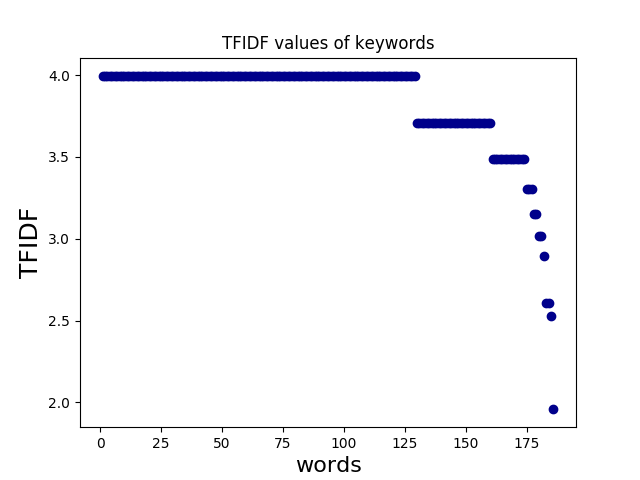
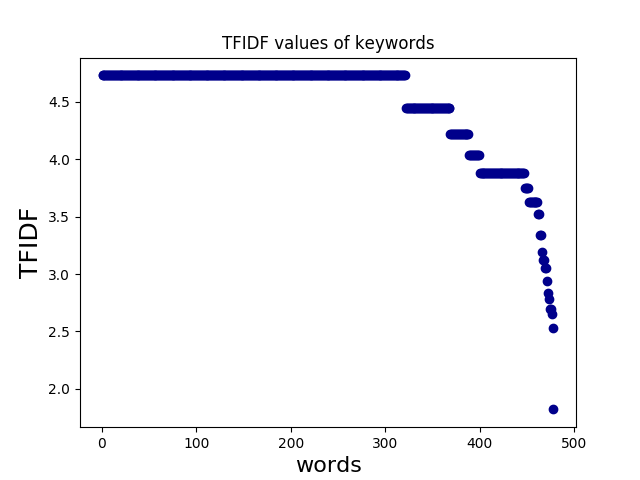
Added SVM for the first time

diff --git a/TraffickingLight/TFIDF.py b/TraffickingLight/TFIDF.py
@@ -1,7 +1,13 @@
 from sklearn.feature_extraction.text import TfidfVectorizer
 from sklearn.feature_extraction import text
-from sklearn.feature_selection import chi2
-from sklearn import svm
+from sklearn.feature_selection import chi2, SelectKBest
+from sklearn.svm import LinearSVC
+from time import time
+from sklearn import metrics
+from sklearn.pipeline import Pipeline
+from sklearn.model_selection import train_test_split
+from sklearn import preprocessing
+
 import pandas as pd
 import numpy as np
 import os
@@ -19,14 +25,14 @@ dfT = pd.DataFrame(columns=['time stamp', 'user', 'full text', 'image url', 'Fla
 dfF = pd.DataFrame(columns=['time stamp', 'user', 'full text', 'image url', 'Flag'])
 dfA = pd.DataFrame(columns=['time stamp', 'user', 'full text', 'image url', 'Flag'])
 #ngram_range=(lower bound number of words, upper bound number of words)
-tfidf = TfidfVectorizer(ngram_range=(1,2), stop_words=my_stop_words, norm='l2', min_df=2)
+tfidf = TfidfVectorizer(ngram_range=(1,2), stop_words=my_stop_words, min_df=2, sublinear_tf=True)
 
 
 #lemmatization method
 def clean(tweet):
 
     cleaned_tweet = re.sub(r'([^\w\s]|\d)+', '', tweet.lower())
-    return ' '.join([lemmatizer.lemmatize(i, 'v')
+    return ' '.join([lemmatizer.lemmatize(i)
                 for i in cleaned_tweet.split() if i not in my_stop_words])
 
 #To form dataframe for matrix in preparation for scatter plot
@@ -46,6 +52,7 @@ def plotTFIDF(tfidf_dictionary):
     plt.show()
 
 
+# This calculates the idf value for the terms in the posts and prints the highest ones
 def topTerms(vectorizer):
     indices = np.argsort(vectorizer.idf_)[::-1]
     top_n = 40
@@ -59,9 +66,10 @@ for pos_csv in os.listdir(path_to_csv):
     if pos_csv.endswith('.csv'):
         csv_in = pd.read_csv(path_to_csv + pos_csv)
 
-        dfT = dfT.append(csv_in[csv_in['Flag'] == 'Y'])
-        dfF = dfF.append(csv_in[csv_in['Flag'] == 'N'])
+        dfT = dfT.append(csv_in[csv_in['Flag'] == 1])
+        dfF = dfF.append(csv_in[csv_in['Flag'] == 0])
         dfA = dfA.append(csv_in)
+
 
 print('Number of True sets: ', dfT['full text'].count())
 print('Number of False sets: ', dfF['full text'].count())
@@ -77,11 +85,14 @@ topTerms(tfidf)
 
 #lemmatization going on here
 
-for row, index in zip(dfT['full text'], range(len(dfT['full text']))):
-    row = clean(row)
-    #cleans out the first 'b', any phrases that starts with https, and rt's
-    row = re.sub(r'(^b)|(\b(https)\w*\s)|(\brt\s)', '', row)
-    dfT['full text'].iloc[index] = row
+def lemmatize(df):
+    for row, index in zip(df['full text'], range(len(df['full text']))):
+        row = clean(row)
+        # cleans out the first 'b', any phrases that starts with https, and rt's
+        row = re.sub(r'(^b)|(\b(https)\w*\s)|(\brt\s)', '', row)
+        df['full text'].iloc[index] = row
+
+lemmatize(dfT)
 
 print('Cleaned Up')
 print(dfT['full text'])
@@ -97,10 +108,12 @@ topTerms(tfidf)
 
 #Analysis using Chi2
 
+lemmatize(dfA)
+
 response_all_lemmatized = tfidf.fit_transform(dfA['full text'])
 tf_array = response_all_lemmatized.toarray()
-top_n_terms = 10
-features_chi2 = chi2(tf_array, 'T' == dfA['Flag'])
+top_n_terms = 5
+features_chi2 = chi2(tf_array, dfA['Flag'] == 1)
 indices = np.argsort(features_chi2[0])
 feature_names = np.array(tfidf.get_feature_names())[indices]
 unigrams = [v for v in feature_names if len(v.split(' ')) == 1]
@@ -109,16 +122,56 @@ print("  . Most correlated unigrams:\n. {}".format('\n. '.join(unigrams[-top_n_t
 print("  . Most correlated bigrams:\n. {}".format('\n. '.join(bigrams[-top_n_terms:])))
 
 
-# This calculates the idf value for the terms in the posts and prints the highest ones
+
 
 
 #-------------------------Machine Learing Model Development------------------------#
 #create a svm classifier
-clf = svm.SVC(kernel= 'linear')
+
+
+def benchmark(clf):
+    print('_' * 80)
+    print("Training: ")
+    print(clf)
+    t0 = time()
+    clf.fit(X_train, y_train)
+    train_time = time() - t0
+    print("train time: %0.3fs" % train_time)
+
+    t0 = time()
+    pred = clf.predict(X_test)
+    test_time = time() - t0
+    print("test time:  %0.3fs" % test_time)
+
+    score = metrics.accuracy_score(y_test, pred)
+    print("accuracy:   %0.3f" % score)
 
 
 
 
+X = tfidf.transform(dfA['full text'])
+
+y = np.asarray(dfA['Flag'])
+
+X_train, X_test, y_train, y_test = train_test_split(X, y, test_size=0.25, random_state=42)
+
+print("n samples and n features: ", X_test.shape)
+
+print('_' * 80)
+print("Training: ")
+t0 = time()
+clf = LinearSVC(penalty="l1", dual=False, tol=1e-3)
+
+clf.fit(X_train, y_train)
+train_time = time() - t0
+print("train time: %0.3fs" % train_time)
+
+pred = clf.predict(X_test)
+test_time = time() - t0
+print("test time:  %0.3fs" % test_time)
+
+score = metrics.accuracy_score(y_test, pred)
+print("accuracy:   %0.3f" % score)
 
 
 

diff --git a/TraffickingLight/ImportTweet.py b/TraffickingLight/ImportTweet.py
@@ -7,12 +7,12 @@ import pandas as pd
 #data_json = open('/Users/Ju1y/Documents/Trafficking Light/(Pimpin) OR (Pregofetish) OR (dfe)/tweets_1548882430_1.json', mode='r').read();
 #data_python = json.loads(data_json)
 
-path_to_json = '/Users/Ju1y/Documents/Trafficking Light/S8'
+path_to_json = '/Users/Ju1y/Documents/Trafficking Light/S11'
 json_files = [pos_json for pos_json in os.listdir(path_to_json) if pos_json.endswith('.json')]
 
 #change file num everytime by 1
-filenum = 15
-write_path = '/Users/Ju1y/Documents/Trafficking Light/S8/Training Data ' + str(filenum) + '.csv'
+filenum = 18
+write_path = '/Users/Ju1y/Documents/Trafficking Light/S11/Training Data ' + str(filenum) + '.csv'
 
 
 csv_out = open(write_path, mode='w') #open csv

diff --git a/TraffickingLight/Flag.py b/TraffickingLight/Flag.py
@@ -22,11 +22,11 @@ def flag_input(df):
 
 
 
-csv_in = pd.read_csv('/Users/Ju1y/Documents/Trafficking Light/S5/Training Data 12.csv')
+csv_in = pd.read_csv('/Users/Ju1y/Documents/Trafficking Light/S8/Training Data 15.csv')
 total_rows = len(csv_in['full text'])
 
 csv_in['Flag'] = flag_input(csv_in)
-csv_in.to_csv('/Users/Ju1y/Documents/Trafficking Light/Flagged/Training Data Flagged 8.csv', index = False) #writing back to new csv file
+csv_in.to_csv('/Users/Ju1y/Documents/Trafficking Light/Flagged/Training Data Flagged 10.csv', index = False) #writing back to new csv file
 
 
 
